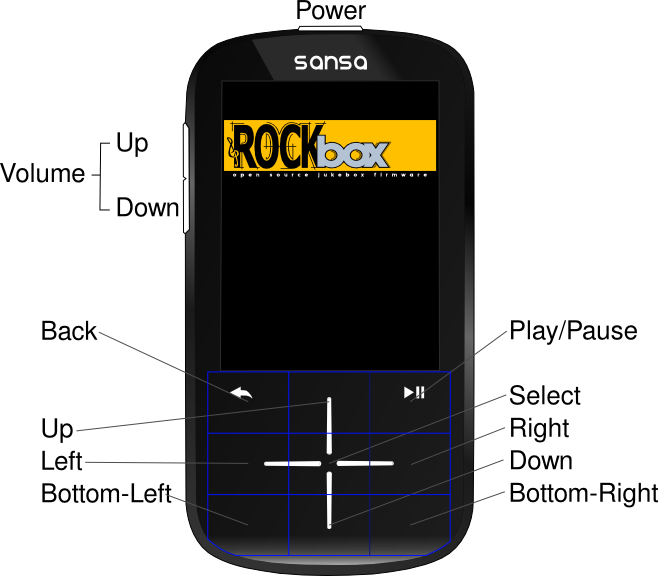
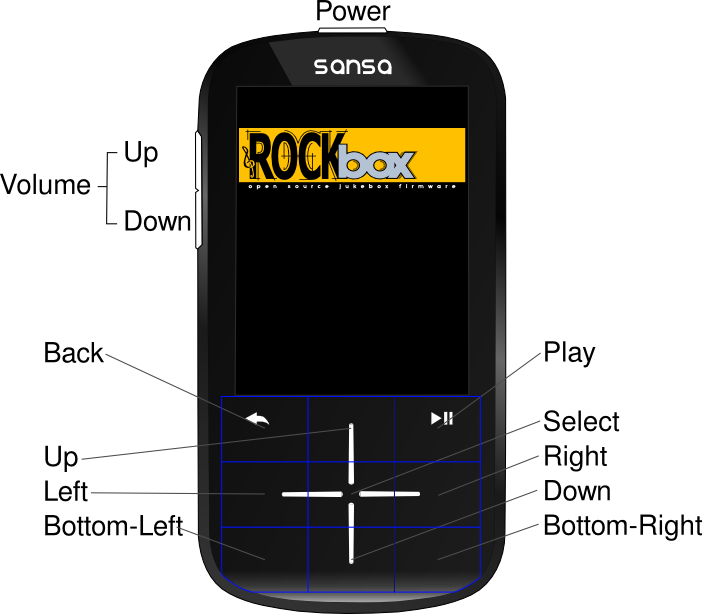
Fuze+'s manual: change ugly \ButtonPlayPause
Following a discution on irc we agreed on that:

- \ButtonPlayPause becomes \ButtonPlay for consistency
- It appeas in the manual as Play unstead of Play/Pause
- updated manual images accordingly

The patch was tested: manual still compile and display keymaps correctly

diff --git a/manual/platform/keymap-sansafuzeplus.tex b/manual/platform/keymap-sansafuzeplus.tex
@@ -4,7 +4,7 @@
 \newcommand{\ButtonDown}{\btnfnt{Down}}
 
 \newcommand{\ButtonBack}{\btnfnt{Back}}
-\newcommand{\ButtonPlayPause}{\btnfnt{Play/Pause}}
+\newcommand{\ButtonPlay}{\btnfnt{Play}}
 \newcommand{\ButtonSelect}{\btnfnt{Select}}
 \newcommand{\ButtonBottomLeft}{\btnfnt{Bottom-Left}}
 \newcommand{\ButtonBottomRight}{\btnfnt{Bottom-Right}}
@@ -30,8 +30,8 @@
 \newcommand{\ActionQuickScreenExit}{Any corner keys or \ButtonSelect}
 
 %Button actions, wps context
-\newcommand{\ActionWpsPlay}{\ButtonPlayPause}
-\newcommand{\ActionWpsStop}{Long \ButtonPlayPause}
+\newcommand{\ActionWpsPlay}{\ButtonPlay}
+\newcommand{\ActionWpsStop}{Long \ButtonPlay}
 
 \newcommand{\ActionWpsContext}{Long \ButtonSelect}
 
@@ -57,8 +57,8 @@
 \newcommand{\ActionWpsAbReset}{\fixme{tbd}}
 
 %Button actions, tree context
-\newcommand{\ActionTreeWps}{\ButtonPlayPause}
-\newcommand{\ActionTreeStop}{Long \ButtonPlayPause}
+\newcommand{\ActionTreeWps}{\ButtonPlay}
+\newcommand{\ActionTreeStop}{Long \ButtonPlay}
 
 \newcommand{\ActionTreeEnter}{\ButtonSelect{} or \ButtonRight}
 \newcommand{\ActionTreeParentDirectory}{\ButtonBack}
@@ -89,7 +89,7 @@
 
 \newcommand{\ActionKbdBackSpace}{\ButtonBack}
 
-\newcommand{\ActionKbdSelect}{\ButtonPlayPause}
+\newcommand{\ActionKbdSelect}{\ButtonPlay}
 \newcommand{\ActionKbdDone}{Long \ButtonSelect}
 \newcommand{\ActionKbdAbort}{\ButtonPower}
 
@@ -108,10 +108,10 @@
 \newcommand{\ActionPsToggleMode}{\ButtonBottomRight}
 
 \newcommand{\ActionPsReset}{\ButtonSelect}
-\newcommand{\ActionPsExit}{\ButtonBack{} or \ButtonPlayPause}
+\newcommand{\ActionPsExit}{\ButtonBack{} or \ButtonPlay}
 
 %Button actions, Recording screen context
-\newcommand{\ActionRecPause}{\ButtonPlayPause}
+\newcommand{\ActionRecPause}{\ButtonPlay}
 \newcommand{\ActionRecExit}{\ButtonBack}
 \newcommand{\ActionRecNewfile}{\ButtonBottomRight}
 \newcommand{\ActionRecMenu}{\fixme{tbd}}
@@ -124,8 +124,8 @@
 \newcommand{\ActionFMMenu}{\fixme{tbd}}
 
 \newcommand{\ActionFMPreset}{\ButtonBottomRight}
-\newcommand{\ActionFMPlay}{\ButtonPlayPause}
-\newcommand{\ActionFMStop}{Long \ButtonPlayPause}
+\newcommand{\ActionFMPlay}{\ButtonPlay}
+\newcommand{\ActionFMStop}{Long \ButtonPlay}
 \newcommand{\ActionFMMode}{\ButtonBottomLeft}
 \newcommand{\ActionFMExit}{\ButtonBack}
 

diff --git a/manual/plugins/fractals.tex b/manual/plugins/fractals.tex
@@ -27,7 +27,7 @@ This demonstration draws fractal images from the Mandelbrot set%
     \opt{IPOD_4G_PAD,IPOD_3G_PAD,SANSA_E200_PAD,SANSA_FUZE_PAD}{\ButtonScrollBack}
     \opt{IAUDIO_X5_PAD,GIGABEAT_PAD,MROBE100_PAD}{Long \ButtonSelect}
     \opt{IRIVER_H10_PAD}{Long \ButtonPlay}
-    \opt{SANSA_FUZEPLUS_PAD}{\ButtonPlayPause}
+    \opt{SANSA_FUZEPLUS_PAD}{\ButtonPlay}
     \opt{SANSA_C200_PAD,GIGABEAT_S_PAD}{\ButtonVolDown}
     \opt{COWON_D2_PAD}{\TouchTopLeft}
     \opt{PBELL_VIBE500_PAD}{\ButtonMenu}
